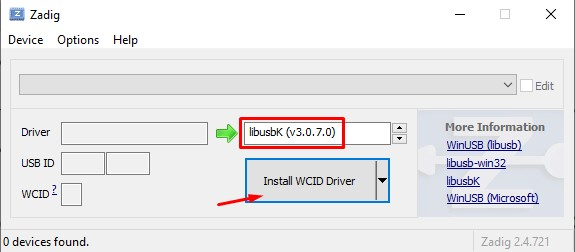
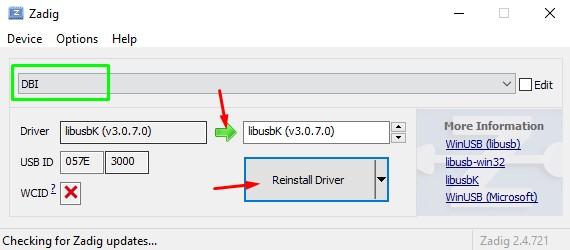
bugfix

diff --git a/games.html b/games.html
@@ -457,11 +457,15 @@
 <p class="notice--warning">Эти драйвера отличаются от тех, что используются для передачи пейлоада на switch! Если вы ни разу не устанавливали игры этим методом, ставить драйвера нужно обязательно!</p>
 
 <ol>
+  <li>Подключите Switch к ПК кабелем</li>
+  <li><strong>На приставке</strong> запустите <strong>DBI</strong> через <a href="hbl" target="_blank">Homebrew Launcher</a></li>
+  <li>Выберите пункт “<strong>Install title from USB</strong>”</li>
   <li>
     <p>На ПК запустите <a href="https://zadig.akeo.ie/" target="_blank"><code class="highlighter-rouge">Zadig.exe</code></a> от имени Администратора</p>
 
     <p class="text-center notice--info"><img src="/images/screenshots/zadig.jpg" alt="" /></p>
   </li>
+  <li>Убедитесь, что в поле, отмеченном зелёным стоит “<strong>DBI</strong>”</li>
   <li>В поле “<strong>Driver</strong>” выберите <code class="highlighter-rouge">libusbK (v3.0.7.0)</code></li>
   <li>Нажмите “<strong>Install Driver</strong>”</li>
   <li>После успешной установки драйвера нажмите “<strong>Close</strong>” и закройте программу</li>
